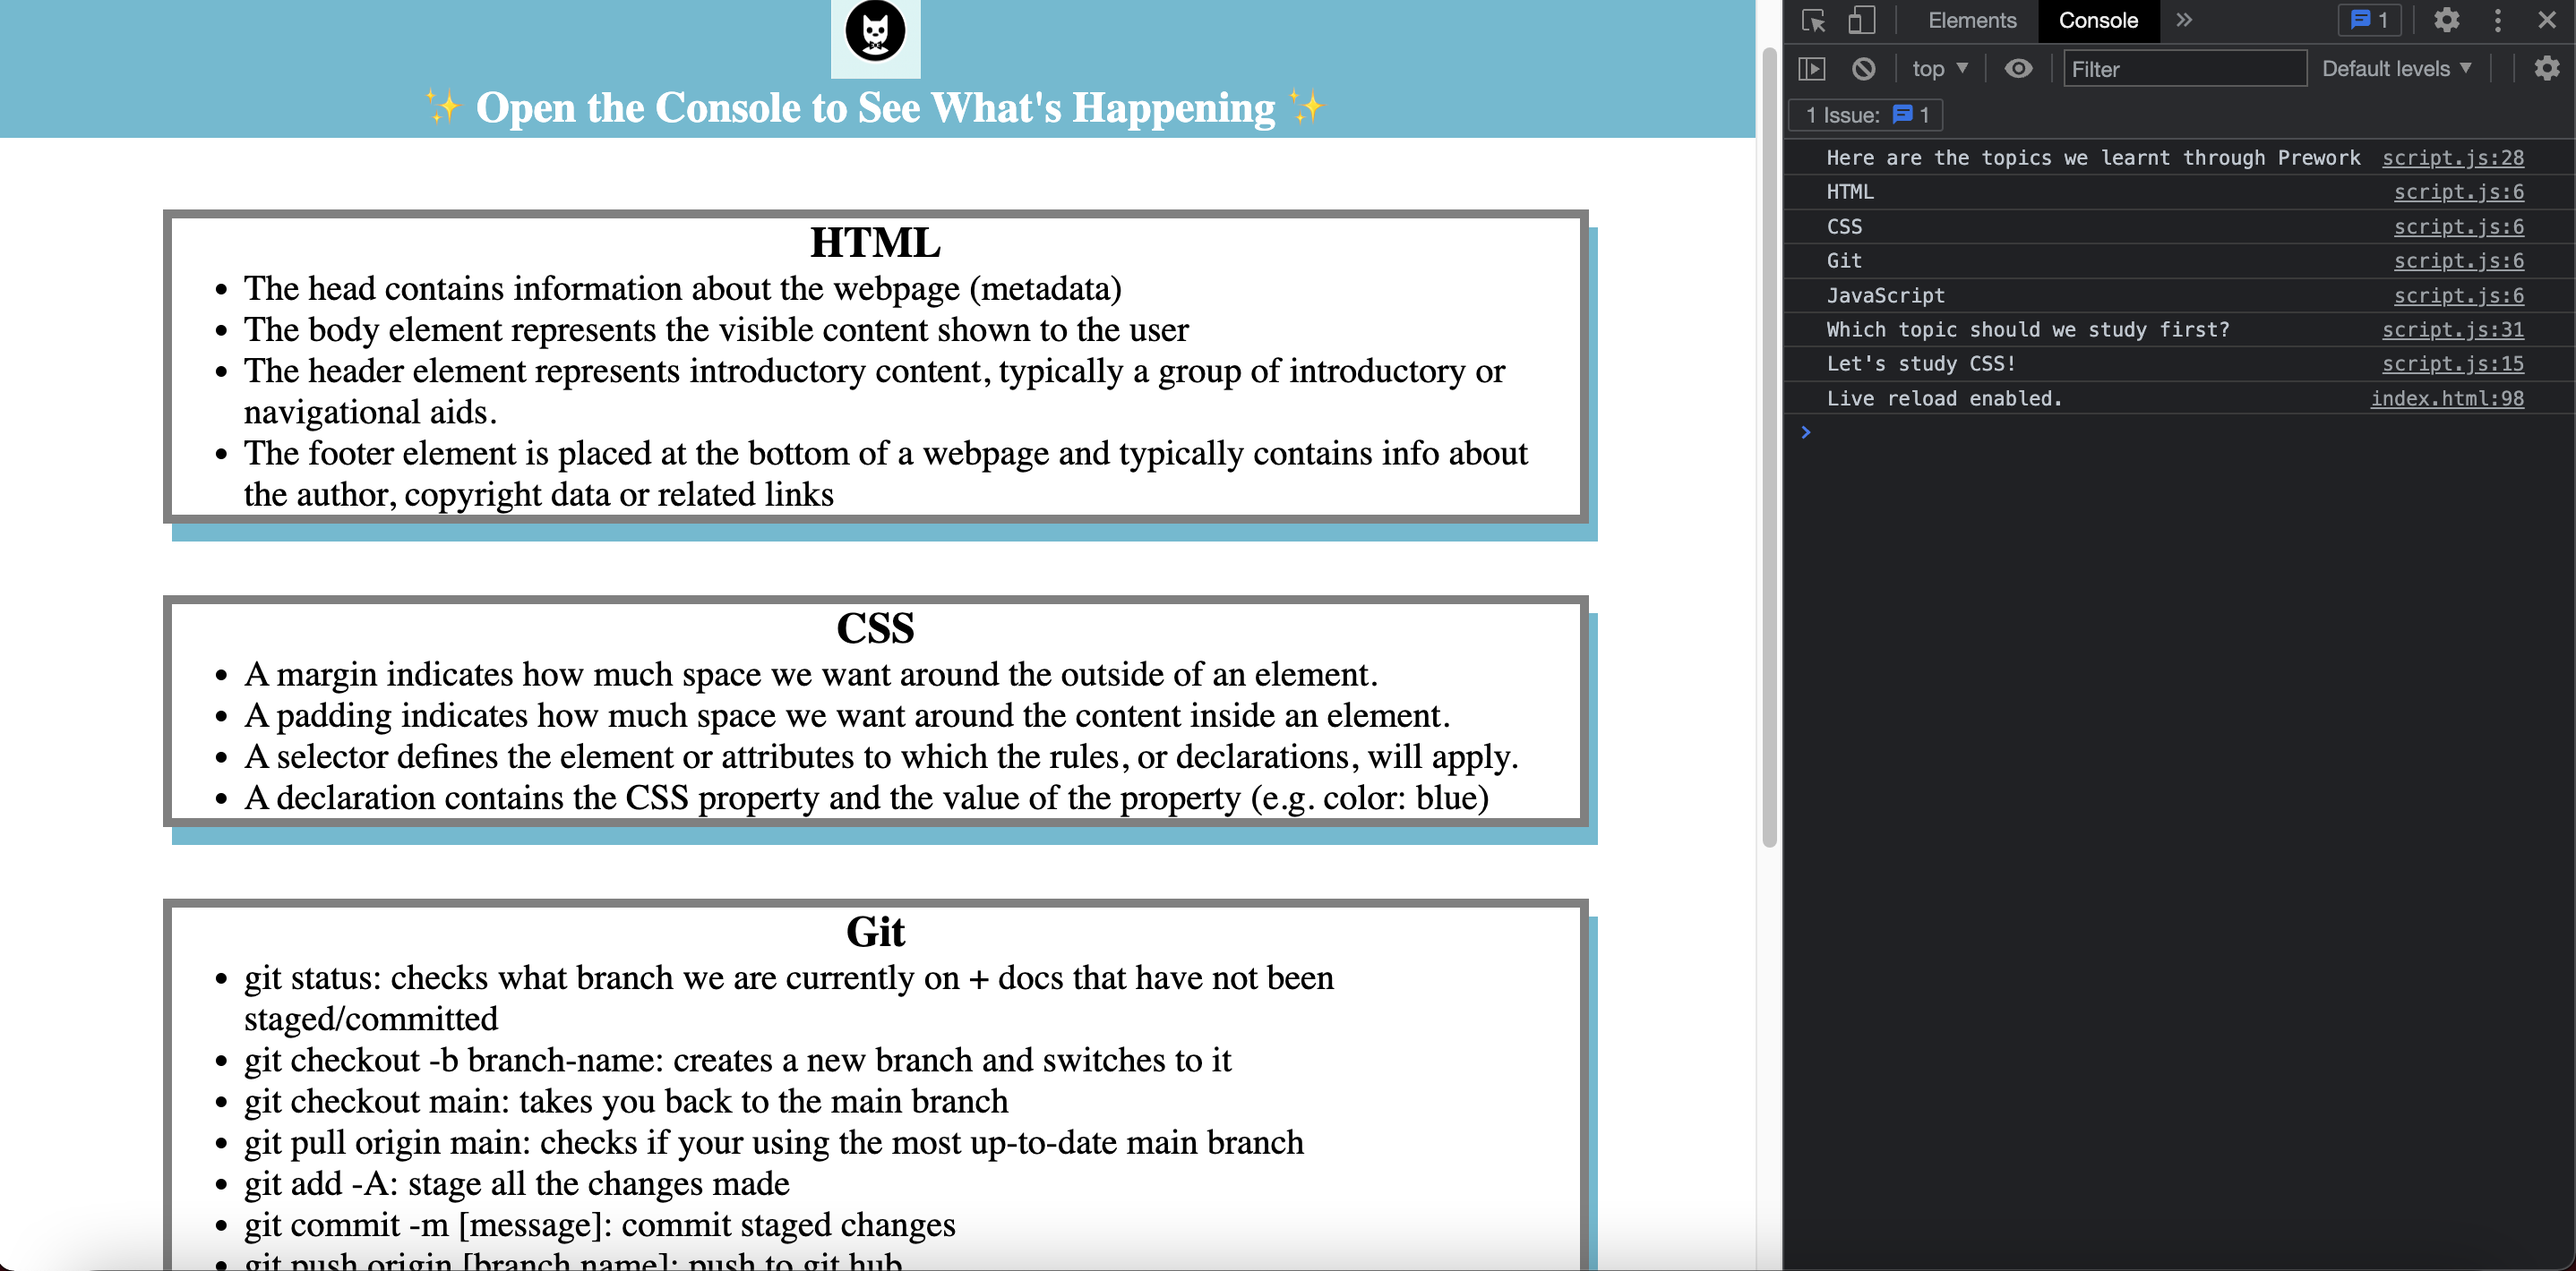
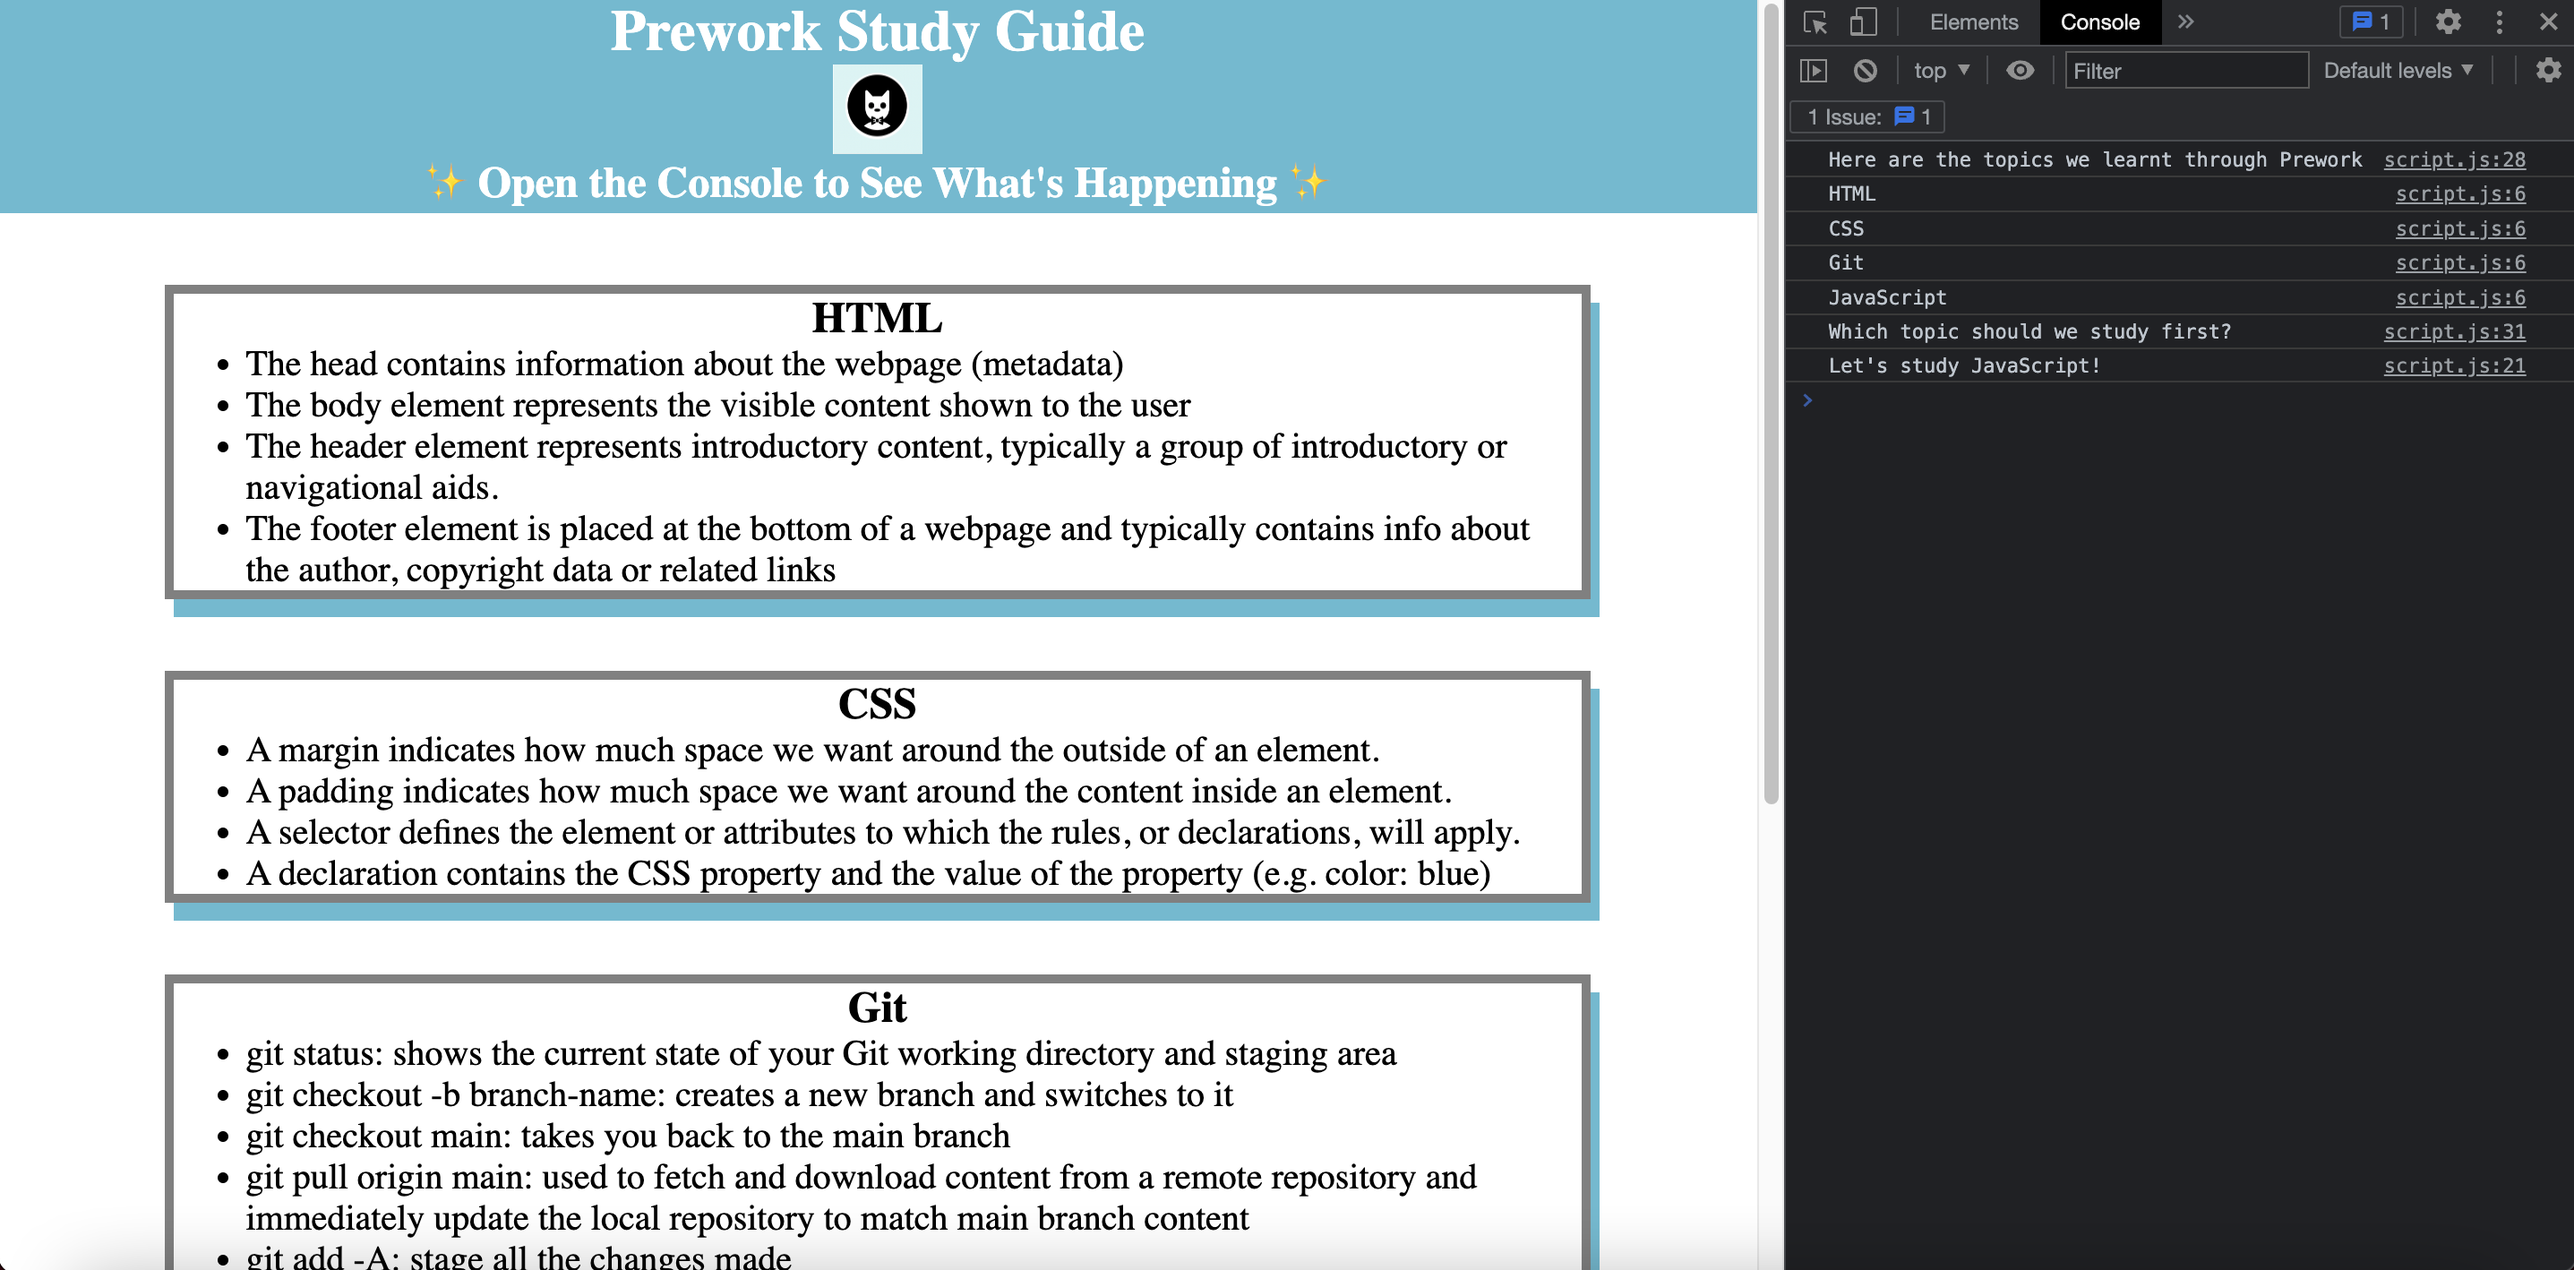
Fix spelling

diff --git a/index.html b/index.html
@@ -39,11 +39,10 @@
       <section class="card" id="git-section">
         <h2>Git</h2>
         <ul>
-          <li>git status: checks what branch we are currently on + docs that have
-              not been staged/committed</li>
+          <li>git status: shows the current state of your Git working directory and staging area</li>
           <li>git checkout -b branch-name: creates a new branch and switches to it</li>
           <li>git checkout main: takes you back to the main branch</li>
-          <li>git pull origin main: checks if your using the most up-to-date main branch</li>
+          <li>git pull origin main: used to fetch and download content from a remote repository and immediately update the local repository to match main branch content</li>
           <li>git add -A: stage all the changes made</li>
           <li>git commit -m [message]: commit staged changes</li>
           <li>git push origin [branch name]: push to git hub</li>

diff --git a/README.md b/README.md
@@ -3,7 +3,7 @@
 ## Description
 
 
-This Prework Study Guide has been created as means to aid beginners in learning the absolute essentials of web development. It inludes helpful notes on HTML, CSS, JavaScript and Git that beginners can come back to when they need assistance. By creating this guide, I learnt how to create and deploy a webpage from scratch.  
+This Prework Study Guide has been created as means to aid beginners in learning the absolute essentials of web development. It includes helpful notes on HTML, CSS, JavaScript and Git that beginners can come back to when they need assistance. By creating this guide, I learnt how to create and deploy a webpage from scratch.  
 
 
 ## Installation
